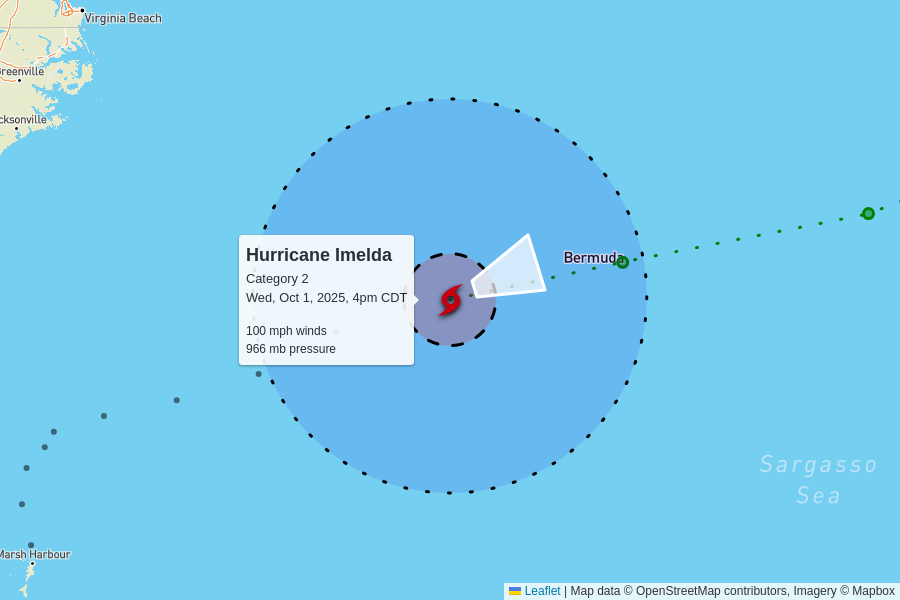
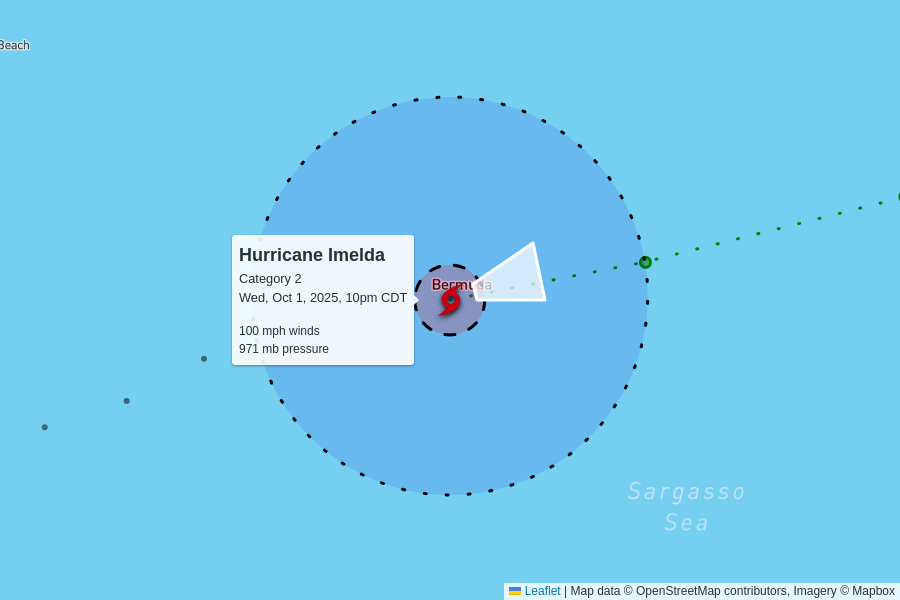
automatic update

diff --git a/docs/index.html b/docs/index.html
@@ -102,7 +102,7 @@
         <td colspan="6" class="storm category-2" >
           <h2>
             Hurricane Imelda - Category 2
-            <p class="updated">last updated <span data-time>2025-10-01T21:00:00.000Z</span></p>
+            <p class="updated">last updated <span data-time>2025-10-02T03:00:00.000Z</span></p>
           </h2>
         </td>
       </tr>
@@ -118,11 +118,11 @@
       <tr>
         <td class="spacer"></td>
         <td>100 mph<br>0 mph since last update</td>
-        <td>966 mb<br>0 mb since last update</td>
+        <td>971 mb<br>+5 mb since last update</td>
         <td>
-          22 mph to the east-northeast
+          29 mph to the east-northeast
           <br/>
-          <span style="display: inline-block; font-size: 1.5em; transform: rotate(70deg);">↑</span>
+          <span style="display: inline-block; font-size: 1.5em; transform: rotate(75deg);">↑</span>
         </td>
         <td><a href="https://raw.githubusercontent.com/mgwalker/atlantic-hurricanes/main/data/csv/AL092025.csv">AL092025.csv</a></td>
         <td><a href="https://www.nhc.noaa.gov/archive/2025/IMELDA.shtml?">NHC advisories</a></td>
